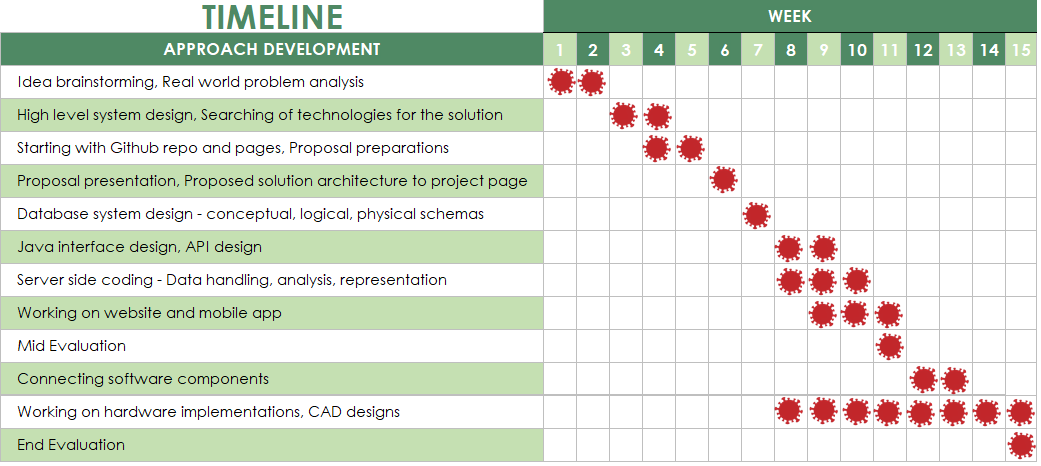
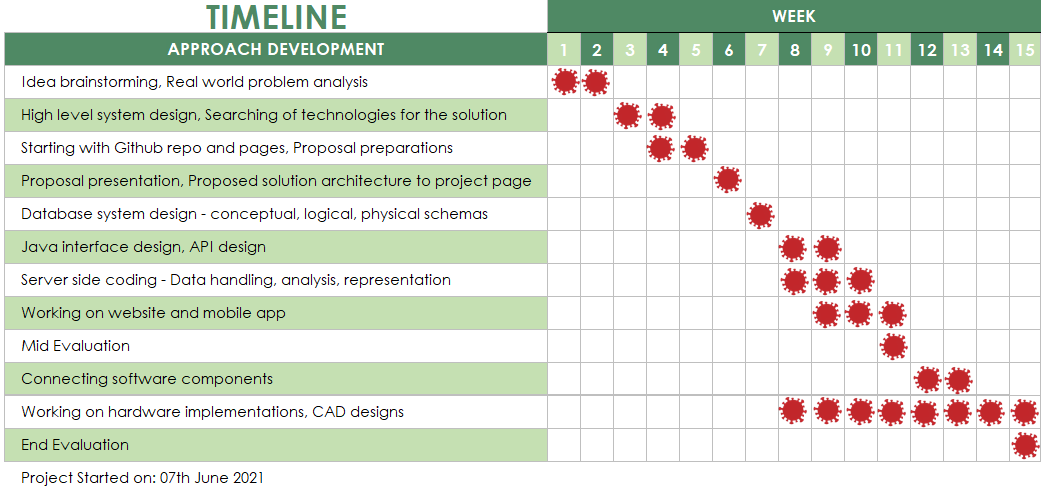
site changes

diff --git a/docs/index.html b/docs/index.html
@@ -2,6 +2,7 @@
 <html lang="en">
 
 <head>
+
   <meta charset="utf-8">
   <meta content="width=device-width, initial-scale=1.0" name="viewport">
 
@@ -26,8 +27,8 @@
   <!-- Template Main CSS File -->
   <link href="assets/css/style.css" rel="stylesheet">
 
-
 </head>
+
 
 <body>
 
@@ -50,7 +51,7 @@
           </span> <i class="bi bi-chevron-down"></i></a>
             <ul>
               <li><a href="#high-level">High Level</a></li>
-              <li><a href="#">Hardware</a></li>
+              <li><a href="#hardware">Hardware</a></li>
               <li><a href="#">Security</a></li>
               <li><a href="#pricing">Budget</a></li>
               <li><a href="#timeline">Timeline</a></li>  
@@ -64,9 +65,9 @@
               <li><a href="#">2</a></li>
                 <li class="dropdown"><a href="#"><span>3</span> <i class="bi bi-chevron-right"></i></a>
                   <ul>
-                    <li><a href="#">Deep Drop Down 1</a></li>
-                    <li><a href="#">Deep Drop Down 2</a></li>
-                    <li><a href="#">Deep Drop Down 3</a></li>
+                    <li><a href="#">1</a></li>
+                    <li><a href="#">2</a></li>
+                    <li><a href="#">3</a></li>
                   </ul>
                 </li> 
               <li><a href="#portfolio">Gallery</a></li>
@@ -197,6 +198,9 @@
                   <i class="bi bi-check"></i> Details get blot by touching with wet hands after washing or sanitizing
                 </li>
                 <li>
+                  <i class="bi bi-check"></i> Personal details of people are publicly made available
+                </li>
+                <li>
                   <i class="bi bi-check"></i> High probability for the guard at the entrance checking temperatures to get in contact with infects
                 </li>
                 <li>
@@ -293,7 +297,8 @@
                   </div>
                   <h4>Covid tracking</h4>
                   <p>
-                    Our system will keep records about the visited locations of a person for a period of 2 weeks. Infect percentages 
+                    Check about reported infects of a particular location as a percentage before visiting.
+                    Our system will also keep records about the visited locations of a person for a period of 2 weeks. Infect percentages 
                     of these locations reported later will be tracked
                   </p>
                 </div>
@@ -357,10 +362,10 @@
         <div class="row">
           <!-- single-well start-->
           <div class="col-md-12 col-sm-6 col-xs-12">
-            <div class="well-left">
+            <div class="well-middle">
               <div class="single-well">
-                <div class="col-md-12 col-sm-12 col-xs-12 padding-img4">
-                  <img src="assets/img/solution/highlevel.png" alt="world due to covid">
+                <div class="col-md-12 col-sm-12 col-xs-12">
+                  <img src="assets/img/solution/highlevel.png" alt="world due to covid" class="center-highlevel">
                 </div>
               </div>
             </div> 
@@ -488,14 +493,9 @@
           </div>
         </div>
         <div class="row">
-          <div class="col-md-12 col-sm-12 col-xs-12 padding-img3">
-            <img src="assets/img/solution/timeline.PNG" alt="Timeline"> 
+          <div class="col-md-12 col-sm-12 col-xs-12">
+            <img src="assets/img/solution/timeline.PNG" alt="Timeline" class="center-timeline"> 
           </div> 
-        </div>
-        <div class="row padding-t">
-          <p>
-            -Project started on 07th June 2021-
-          </p> 
         </div>        
       </div>
     </div><!-- End Timeline Section -->
@@ -665,7 +665,7 @@
                 </div>
                 <div class="blog-text">
                   <h4>
-                    <a href="blog.html">What we achieved</a>
+                    What we achieved
                   </h4>
                   <p>
                     Contents to be updated

diff --git a/docs/assets/css/style.css b/docs/assets/css/style.css
@@ -112,18 +112,18 @@ body {
   line-height: 22px;
 }
 
-.padding-img3 {
-  padding-left: 42px;
-  padding-right: 10px;
+.center-highlevel {
+  display: block;
+  margin-left: auto;
+  margin-right: auto;
+  width: 80%;
 }
 
-.padding-img4 {
-  padding-left: 80px;
-  padding-right: 10px;
-}
-
-.padding-t {
-  padding-left: 800px;
+.center-timeline {
+  display: block;
+  margin-left: auto;
+  margin-right: auto;
+  width: 90%;
 }
 
 
@@ -421,6 +421,7 @@ div#preloader {
     left: -100%;
   }
 }
+
 
 /**
 * Mobile Navigation 
@@ -764,7 +765,7 @@ div#preloader {
 }
 
 .team-member::before {
-  background: rgba(0, 0, 0, 0) url("../img/team/team01.jpg") repeat scroll 0 0;
+  background: rgba(0, 0, 0, 0) url("../img/team/kenath.jpg") repeat scroll 0 0;
   content: "";
   display: block;
   height: 100%;
@@ -798,8 +799,6 @@ div#preloader {
 .padding-img2 {
   padding-left: 120px;
   padding-right: 120px;
-  padding-top: 120x;
-  padding-left: 120ps;
 }
 
 .team-left-text h4 {

diff --git a/docs/assets/js/main.js b/docs/assets/js/main.js
@@ -1,9 +1,4 @@
-/**
-* Template Name: eBusiness - v4.3.0
-* Template URL: https://bootstrapmade.com/ebusiness-bootstrap-corporate-template/
-* Author: BootstrapMade.com
-* License: https://bootstrapmade.com/license/
-*/
+
 (function() {
   "use strict";
 
